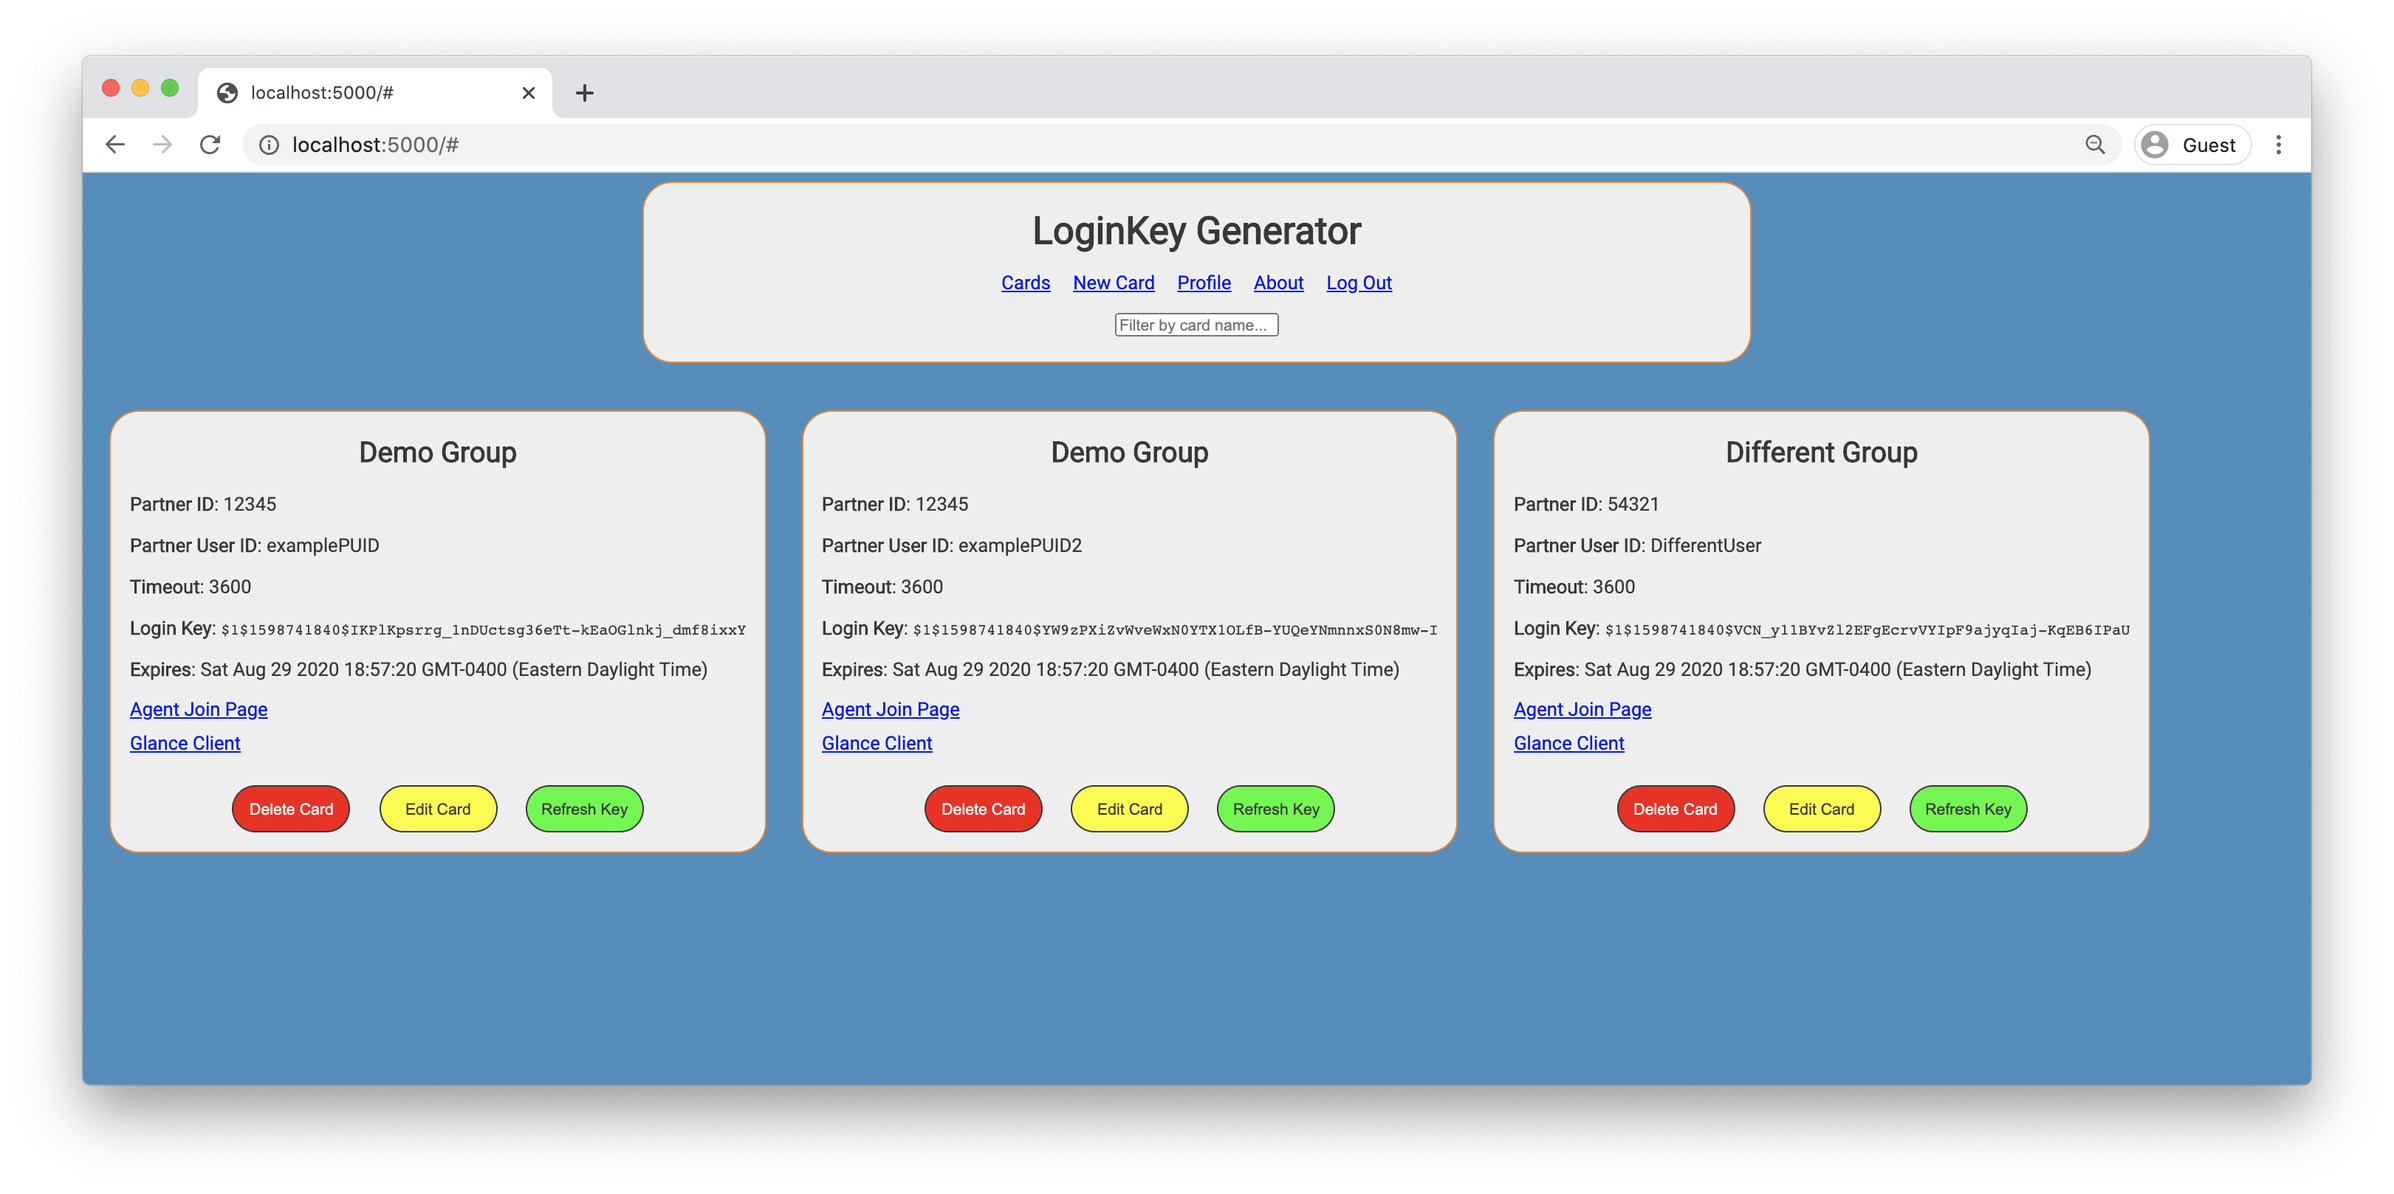
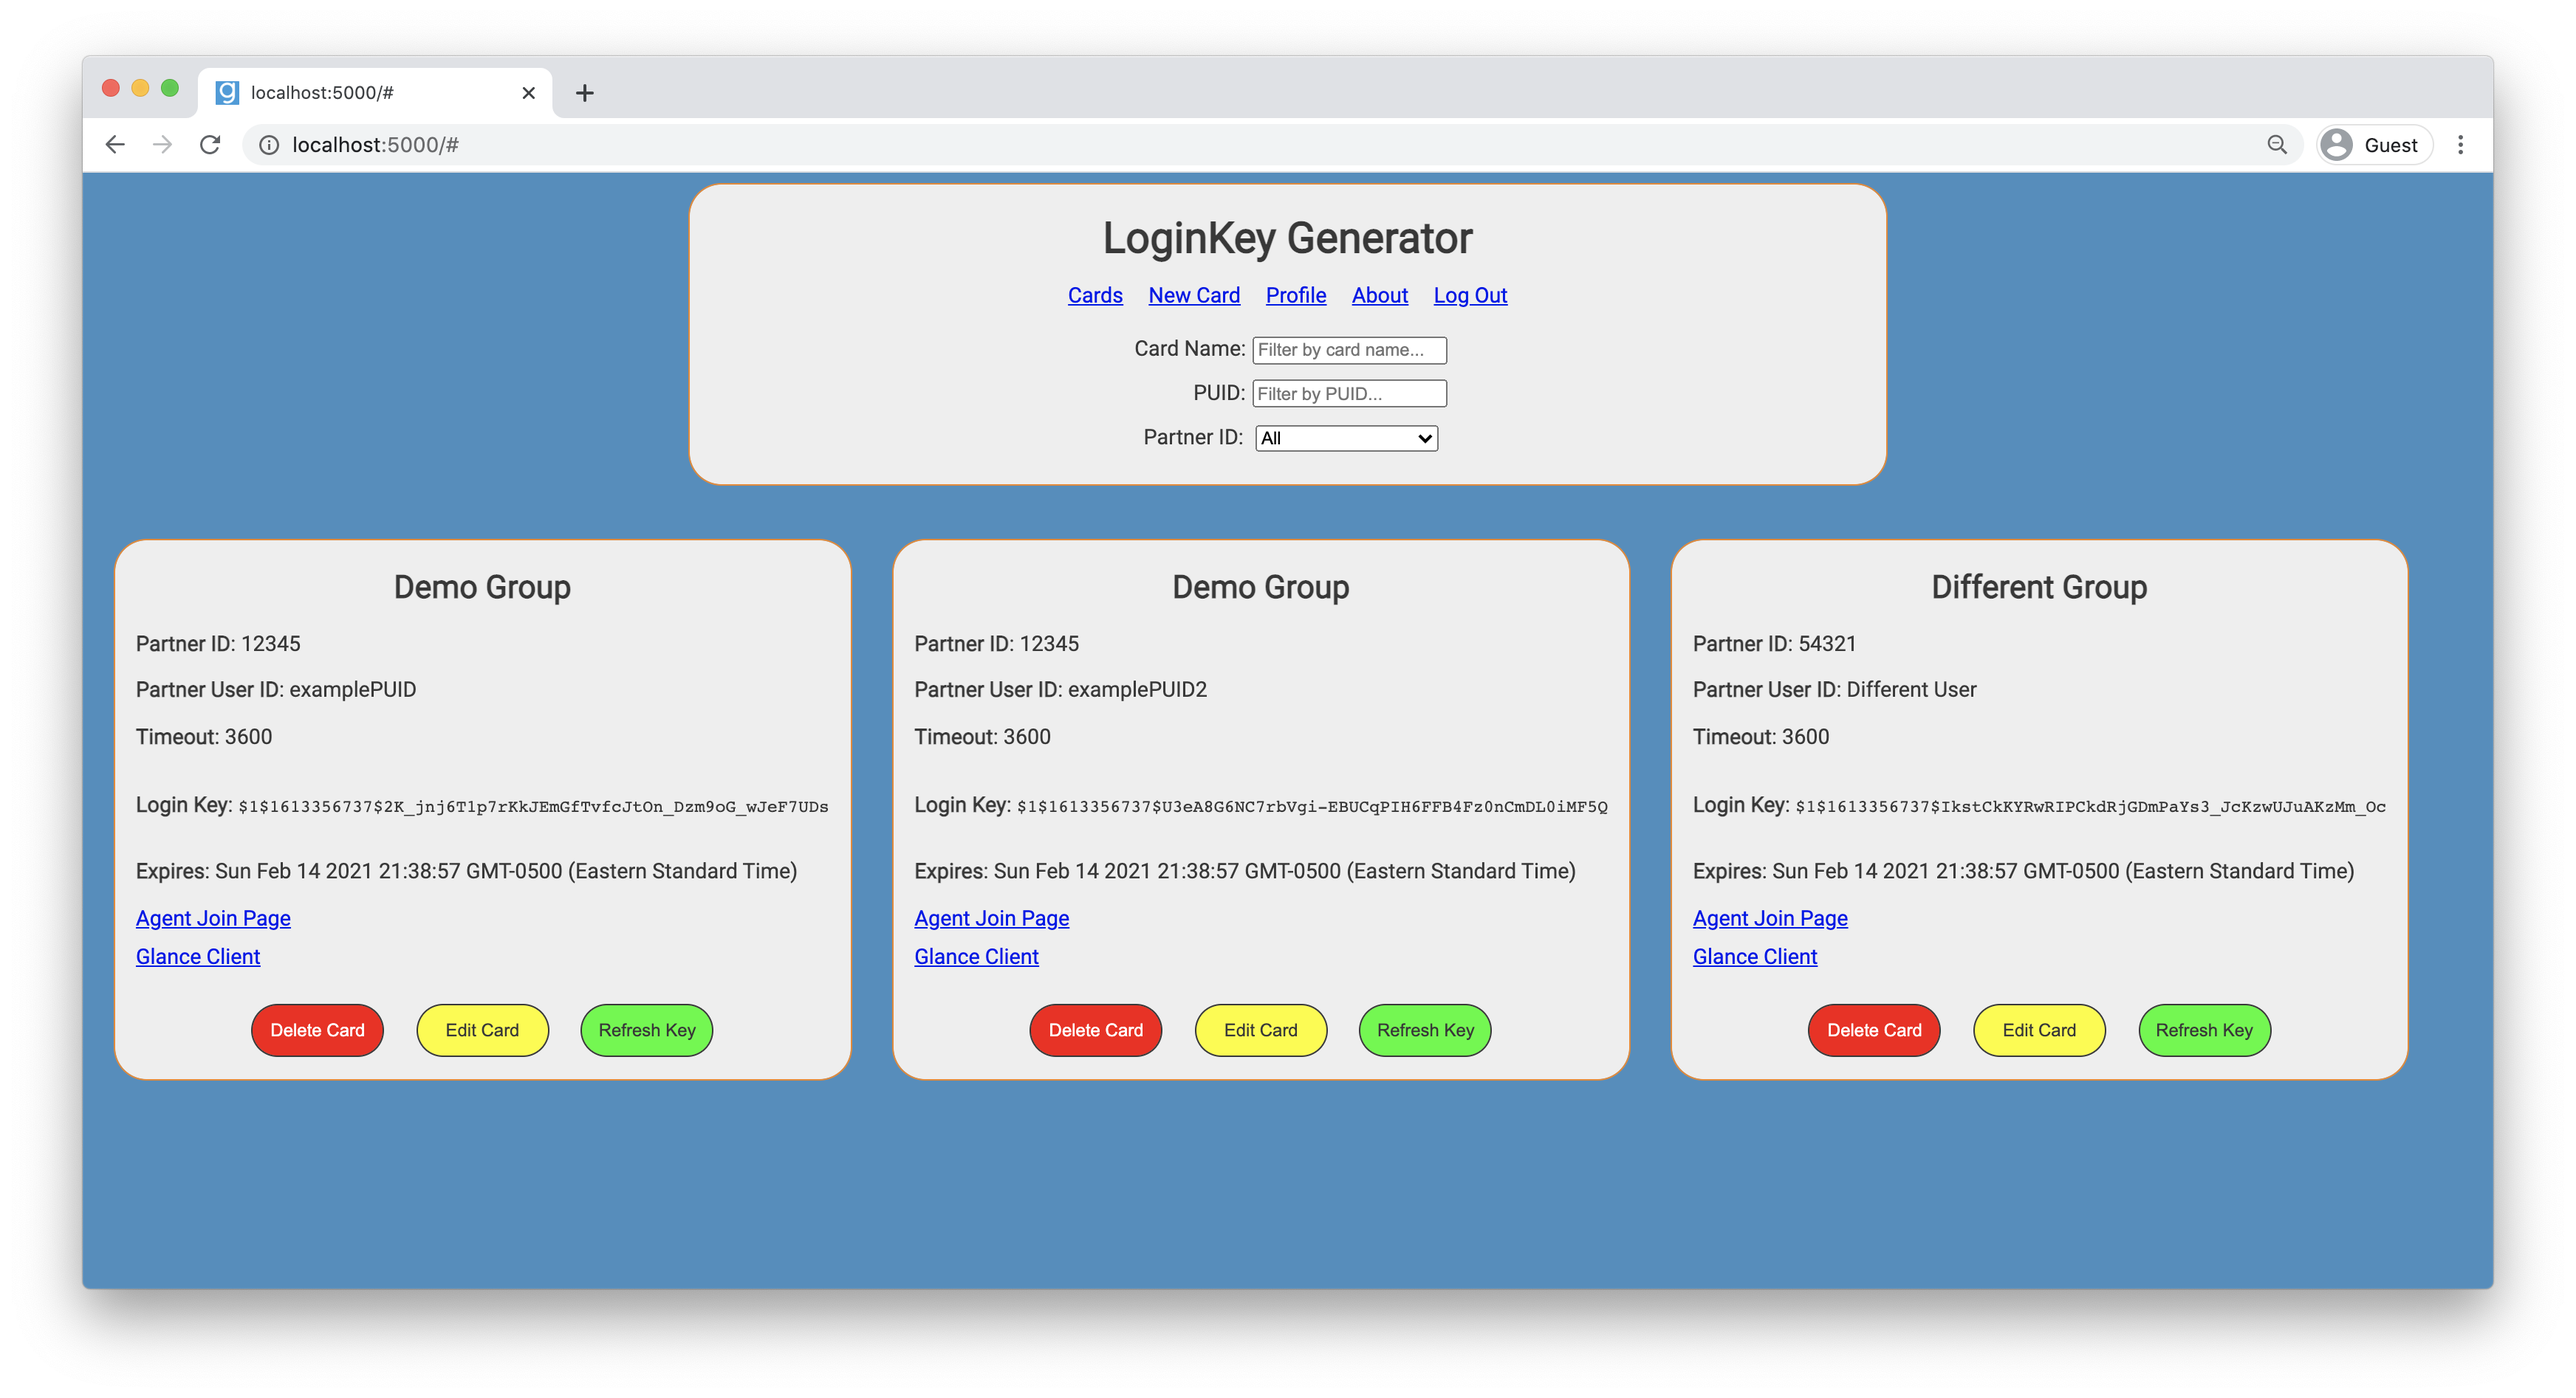
Added filter for Partner ID, updated README

Changed region(s): [[0.0312, 0.0309, 0.9658, 0.7726], [0.0312, 0.8962, 0.9658, 0.9271]]

diff --git a/public/js/app.js b/public/js/app.js
@@ -37,7 +37,7 @@ const generateGroupHTML = function({name, partnerId, partnerUserId, loginKey, ti
     return `
     <div class="group" id="group-${_id}">
             <h2 class="group-h2">${name}</h2>
-            <p><span class="group-info-label">Partner ID</span>: ${partnerId}</p>
+            <p><span class="group-info-label">Partner ID</span>: <span class="partner-id">${partnerId}</span></p>
             <p><span class="group-info-label">Partner User ID</span>: <span class="group-puid">${partnerUserId}<span></p>
             <p><span class="group-info-label">Timeout</span>: <span id="group-info-timeout-${_id}">${timeout}</span></p>
             <p class="tooltip" onclick="copyToClipboard('${loginKey}','${_id}')"><span class="group-info-label">Login Key</span>: <code><span id="group-info-loginkey-${_id}">${loginKey}</span></code><span class="tooltiptext" id="tooltiptext-${_id}">Click to copy.</span></p>
@@ -232,6 +232,7 @@ const getGroups = async function() {
             });
         }
         filter()
+        createPartnerIdSelectList()
     } catch(e) {
         console.log('There was a problem retrieving cards: ', e)
         alert(`Problem retrieving cards: ${e}`)
@@ -652,6 +653,8 @@ const showGroups = function() {
     hideAll()
     getGroups()
     document.getElementById("searchBox").value = ""
+    document.getElementById("searchBoxPUID").value = ""
+    createPartnerIdSelectList()
 }
 
 const showNewGroup = function() {
@@ -690,14 +693,64 @@ const filter = function() {
     var PUIDs = document.getElementsByClassName("group-puid")
     var filterForCardName = document.getElementById("searchBox").value.toUpperCase()
     var filterForPUID = document.getElementById("searchBoxPUID").value.toUpperCase()
+    var partnerIdSelected = document.getElementById("partner-id-select-list").value
 
     for (i = 0; i < cards.length; i++) {
         cards[i].style.display = "none"
         a = cardNames[i].textContent.toUpperCase()
         if (a.indexOf(filterForCardName) > -1) {
             if (PUIDs[i].textContent.toUpperCase().indexOf(filterForPUID) > -1) {
-                cards[i].style.display = "block"
+                var partnerIdOfCard = cards[i].getElementsByClassName("partner-id")[0].textContent
+                var selectedPartnerId = document.getElementById("partner-id-select-list").value
+                if (partnerIdOfCard === selectedPartnerId || selectedPartnerId === "All" || !selectedPartnerId) {
+                    cards[i].style.display = "block"
+                }
             }
         } 
     }
+    createPartnerIdSelectList(partnerIdSelected)
 }
+
+
+
+
+// Create Partner ID Select List
+
+function createPartnerIdSelectList(partnerIdSelected){
+
+    var partnerIdSpans = Array.from(document.getElementsByClassName("partner-id"))
+
+    var partnerIdSpansDisplayed = partnerIdSpans.filter(x => x.offsetParent)
+
+    var partnerIds = partnerIdSpansDisplayed.map(x => x.textContent)
+
+    // De-dupe the Partner IDs
+    var uniquePartnerIds = [...new Set(partnerIds)]
+    uniquePartnerIds.sort()
+
+    var partnerIdselectList = document.getElementById("partner-id-select-list")
+    partnerIdselectList.innerHTML=""
+
+    //Create and append the options
+    var option = document.createElement("option");
+    option.value = "All";
+    option.text = "All";
+    partnerIdselectList.appendChild(option);
+
+    for (var i = 0; i < uniquePartnerIds.length; i++) {
+        var option = document.createElement("option");
+        option.value = uniquePartnerIds[i];
+        option.text = uniquePartnerIds[i];
+        partnerIdselectList.appendChild(option);
+    }
+
+    // Select the previously selected element, if applicable
+    if (partnerIdSelected) {
+        for (var i = 0; i < partnerIdselectList.options.length; i++) {
+            if (partnerIdSelected === partnerIdselectList.options[i].textContent) {
+                partnerIdselectList.selectedIndex = i
+            }
+        }
+    }
+}
+

diff --git a/public/css/styles.css b/public/css/styles.css
@@ -195,7 +195,7 @@ input {
   width: 41%;
   margin: auto;
   display: none;
-  text-align: right;
+  text-align: center;
 }
 
 #searchBoxPUID {
@@ -258,4 +258,20 @@ code:hover {
 
 .expired {
   color: red;
+}
+
+select#partner-id-select-list {
+  width: 138px;
+  margin-top: 10px;
+  height: 20px;
+}
+
+.search-label {
+  display: inline-block;
+  text-align: center;
+  margin: 5px;
+}
+
+div#searchContainerPUID {
+  padding-left: 44px;
 }

diff --git a/README.MD b/README.MD
@@ -80,7 +80,7 @@ The following actions are available for each card:
 - **Edit Card:** This takes you to the Edit Card view (see below).
 - **Refresh Key:** This will refresh the login key if the timeout is specified in relative time.  If the timeout is specified in absolute time, the app will display a warning message and perform no function.
 
-You can also filter by Card Name using the search box below the navigation menu.
+You can also filter by Card Name, PUID, and Partner ID using the search boxes and select list below the navigation menu.  Cards displayed will meet ALL search criteria specified, with Card Name and PUID being case insensitive.
 
 Cards with expired keys will display the expiration date/time in red font:
 
